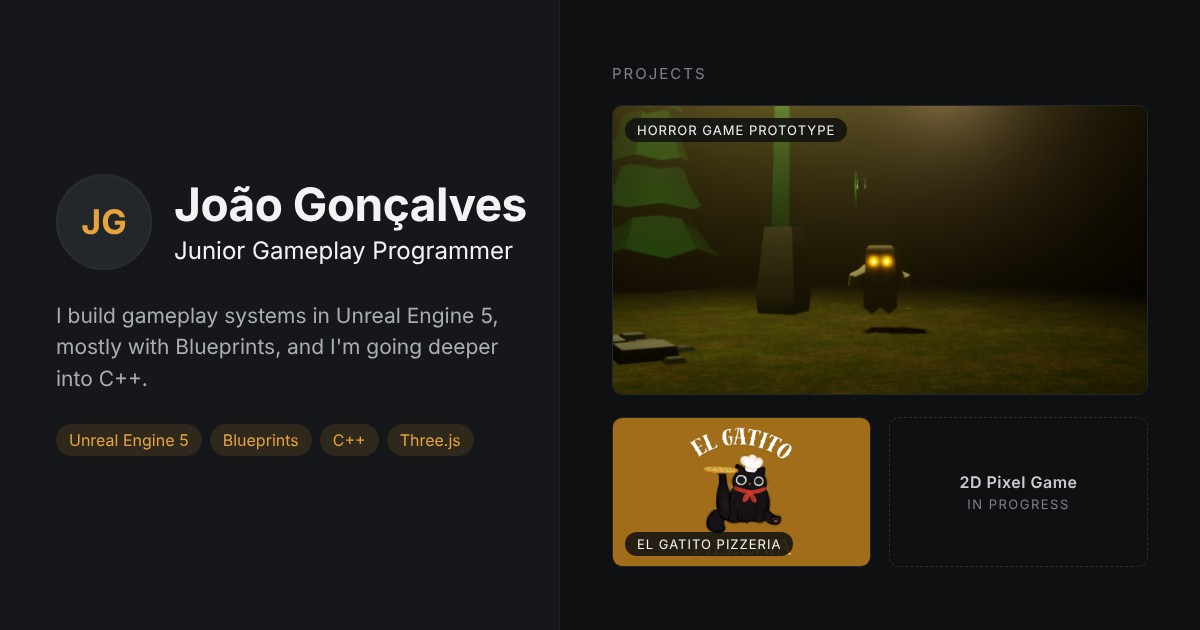
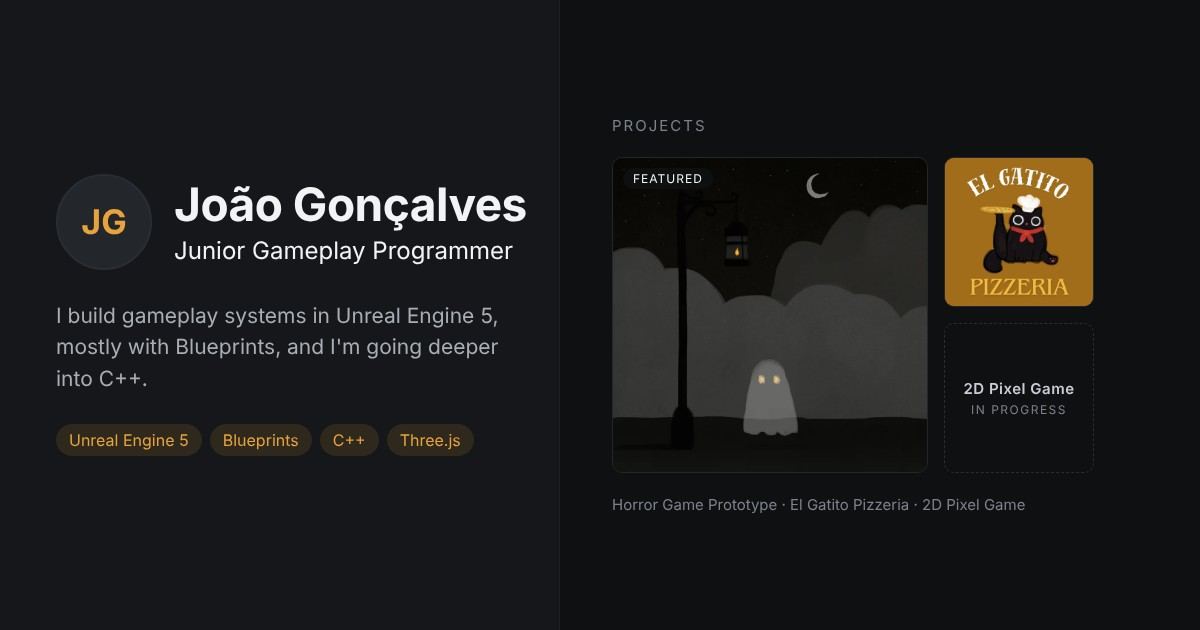
Image frames update

Changed region(s): [[0.4933, 0.1508, 0.9558, 0.9048], [0.5242, 0.0905, 0.5858, 0.1206]]

diff --git a/style.css b/style.css
@@ -280,19 +280,44 @@ main {
 }
 
 .item .side {
+    position: relative;
+    width: clamp(150px, 9vw, 200px);
+    aspect-ratio: 1;
+    display: grid;
+    place-items: center;
+    text-align: center;
+    border: 1px dashed var(--line);
+    border-radius: 6px;
+    overflow: hidden;
     font-size: 12.5px;
     color: var(--muted);
     text-transform: uppercase;
     letter-spacing: 1px;
-    padding-top: 5px;
 }
 
-/* When a screenshot is present, show it with the label underneath */
+/* With a screenshot: the image fills the square and the label sits on it as a badge */
 .item .side:has(.thumb) {
-    padding-top: 0;
-    display: flex;
-    flex-direction: column;
-    gap: 8px;
+    display: block;
+    border: 0;
+}
+
+.item .side:has(.thumb) .thumb {
+    position: absolute;
+    inset: 0;
+    width: 100%;
+    height: 100%;
+}
+
+.item .side:has(.thumb) .label {
+    position: absolute;
+    left: 8px;
+    top: 8px;
+    background: rgba(15, 16, 18, 0.85);
+    color: var(--bright);
+    padding: 2px 9px;
+    border-radius: 999px;
+    font-size: 11px;
+    line-height: 1.6;
 }
 
 .item h3 {
@@ -375,6 +400,14 @@ footer {
     color: #5d6168;
 }
 
+/* Horror game artwork: show the whole square image, centred,
+   with a dark frame around it */
+.item .side .thumb.fit-spooky {
+    object-fit: contain;
+    object-position: center;
+    background: #0d0c0a;
+}
+
 /* ---------- Expandable project details ---------- */
 
 details summary {
@@ -446,68 +479,6 @@ details[open] .toggle::after {
     .more { animation: none; }
 }
 
-/* ---------- Wide screens: one project per row, big image beside the text ---------- */
-
-@media (min-width: 1500px) {
-    .item {
-        grid-template-columns: minmax(0, 1fr) minmax(0, 1.15fr);
-        gap: 40px;
-        padding: 24px;
-        margin: 0 -24px 16px;
-    }
-
-    /* picture area: same size for every project */
-    .item .side,
-    .item .thumb-link {
-        position: relative;
-        aspect-ratio: 16 / 9;
-    }
-
-    .item .side {
-        padding-top: 0;
-        display: grid;
-        place-items: center;
-        border: 1px dashed var(--line);
-        border-radius: 6px;
-        overflow: hidden;
-    }
-
-    .item .thumb {
-        width: 100%;
-        height: 100%;
-        aspect-ratio: 16 / 9;
-        object-fit: cover;
-    }
-
-    .item .thumb-link .thumb {
-        object-fit: contain;
-        background: #a16d1a;
-    }
-
-    /* with a screenshot: image fills the box, label becomes a small badge */
-    .item .side:has(.thumb) {
-        display: block;
-        border: 0;
-    }
-
-    .item .side:has(.thumb) .thumb {
-        position: absolute;
-        inset: 0;
-        border-radius: 6px;
-    }
-
-    .item .side:has(.thumb) .label {
-        position: absolute;
-        left: 10px;
-        top: 10px;
-        background: rgba(15, 16, 18, 0.85);
-        color: var(--bright);
-        padding: 2px 10px;
-        border-radius: 999px;
-        font-size: 11.5px;
-    }
-}
-
 /* ---------- Smaller screens: stack the columns ---------- */
 
 @media (max-width: 960px) {
@@ -546,16 +517,26 @@ details[open] .toggle::after {
     }
 
     .item {
-        grid-template-columns: 1fr;
-        gap: 12px;
+        grid-template-columns: 96px 1fr;
+        gap: 16px;
+        padding: 16px;
+        margin: 0 -16px 8px;
+    }
+
+    .thumb,
+    .item .side {
+        width: 96px;
     }
 
     .item .side {
-        padding-top: 0;
+        font-size: 10.5px;
     }
 
-    .thumb {
-        width: 100%;
-        max-width: 260px;
+    .item .side:has(.thumb) .label {
+        left: 5px;
+        top: 5px;
+        padding: 1px 7px;
+        font-size: 9.5px;
+        letter-spacing: 0.6px;
     }
 }

diff --git a/index.html b/index.html
@@ -88,7 +88,7 @@
         <article class="item featured">
             <!-- Screenshot: images/TheSpookyGame.png -->
             <div class="side">
-                <img class="thumb" src="images/TheSpookyGame.png" alt="Horror Game Prototype screenshot" onerror="this.remove()">
+                <img class="thumb fit-spooky" src="images/TheSpookyGame.png" alt="Horror Game Prototype screenshot" onerror="this.remove()">
                 <span class="label">Featured</span>
             </div>
             <div>
